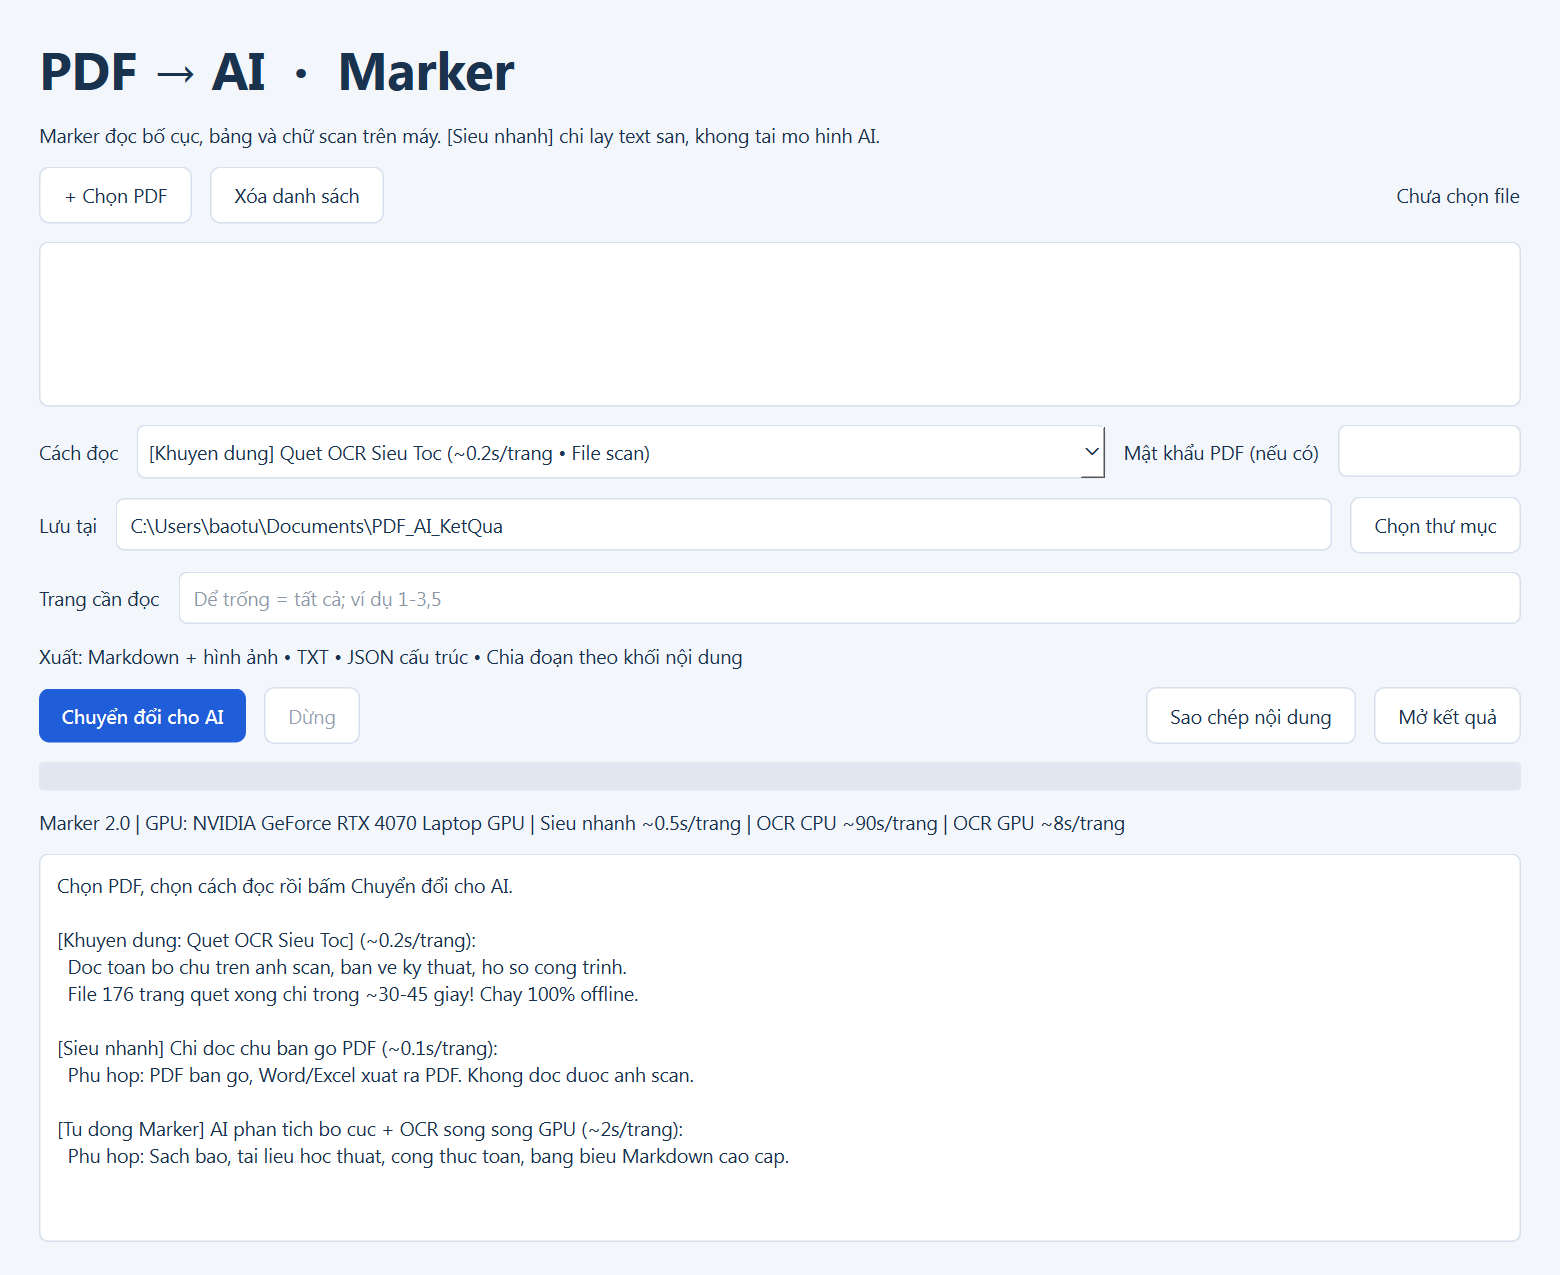
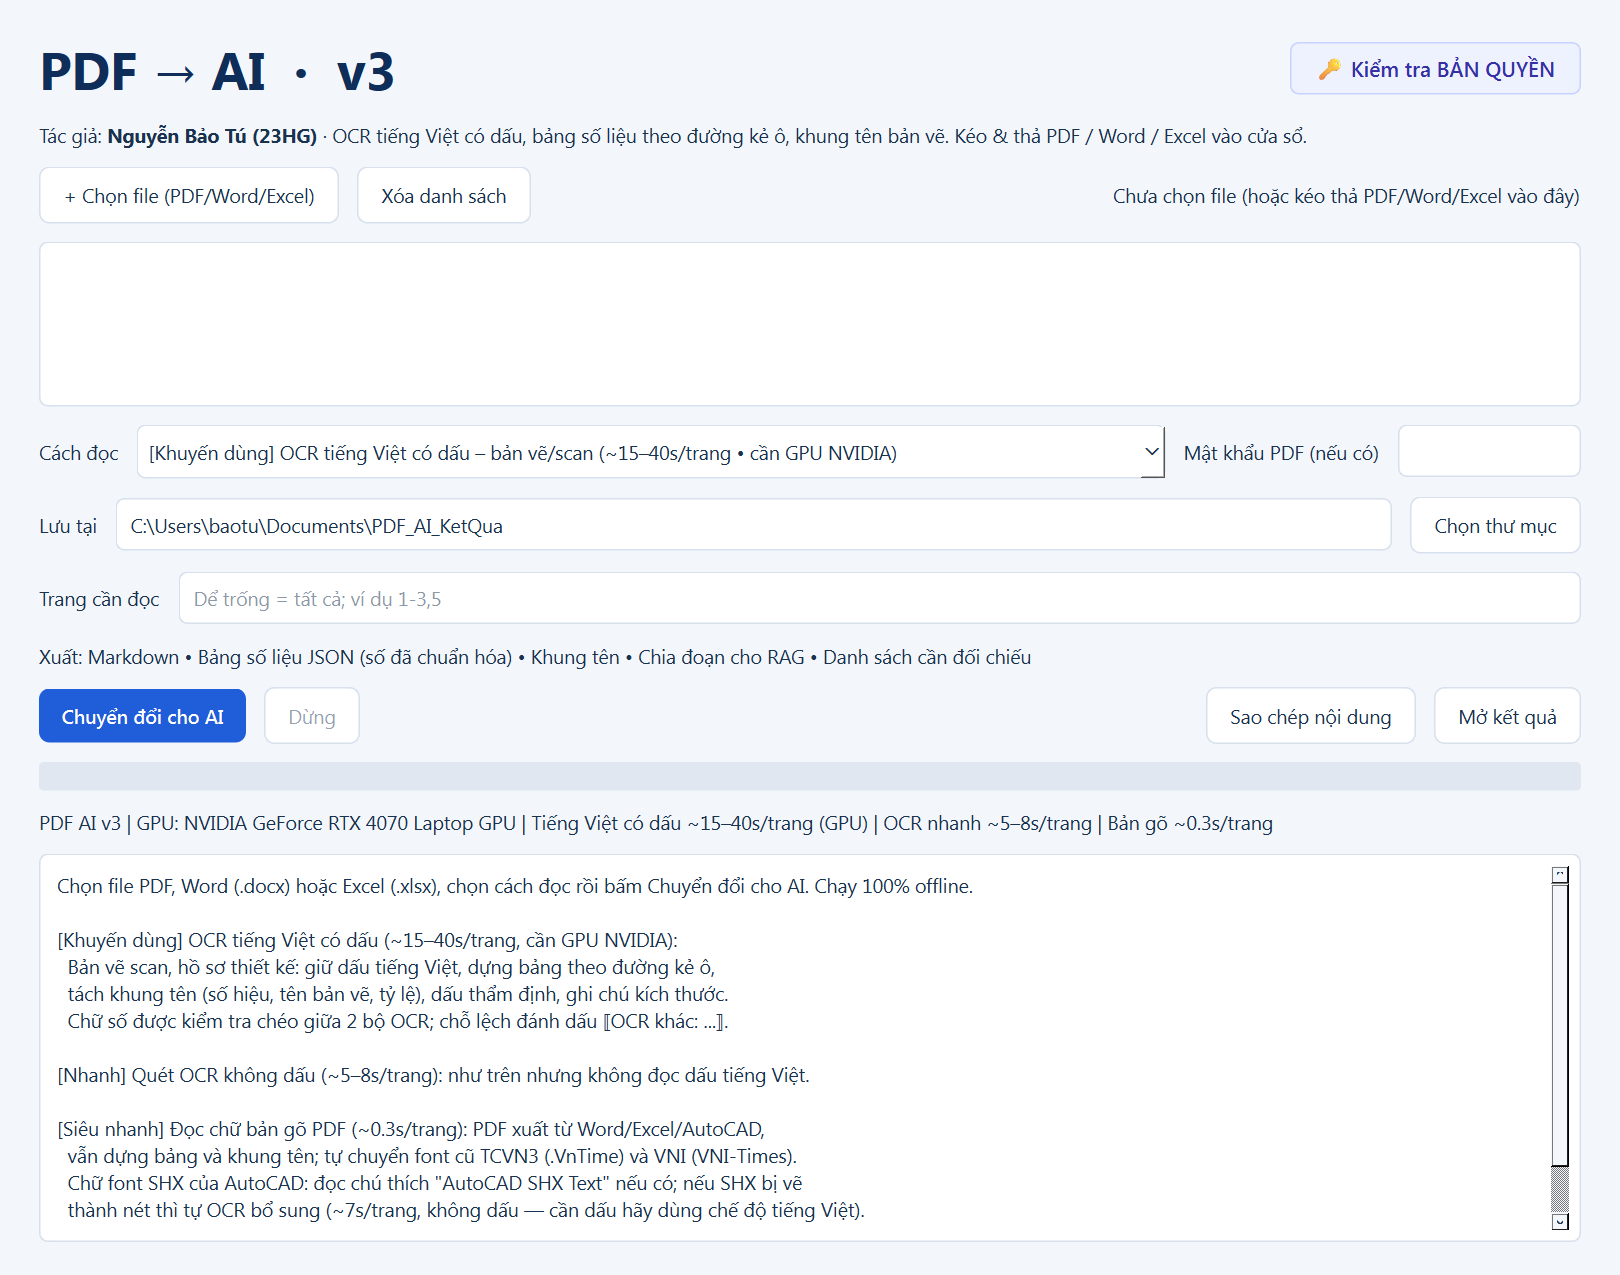
docs: update UI screenshots, commercial licensing docs and user manual in README

diff --git a/README.md b/README.md
@@ -1,106 +1,146 @@
-# PDF AI Marker v3 — Hồ Sơ Xây Dựng (PDF / Word / Excel) Sang AI
+# PDF AI Marker v3 — Chuyển Hồ Sơ Xây Dựng (PDF / Word / Excel) Sang AI Chuẩn Cấu Trúc
 
 <p align="center">
-  <img src="PDF_AI_Marker_Windows_EXE_Final2/app_preview.png" alt="PDF AI Marker v3 Preview" width="800">
+  <img src="PDF_AI_Marker_Windows_EXE_Final2/app_preview.png" alt="PDF AI Marker v3 - Giao diện chính" width="850">
 </p>
 
 <p align="center">
-  <b>Công cụ chuyên nghiệp 100% Offline: Chuyển đổi bản vẽ scan, hồ sơ thiết kế, dự toán, Word & Excel thành dữ liệu có cấu trúc sạch cho AI (LLM / RAG / GPT / Claude).</b>
+  <b>Phần mềm chuyên dụng 100% Offline: Chuyển đổi bản vẽ scan, hồ sơ thiết kế, dự toán, tài liệu Word & Excel thành dữ liệu có cấu trúc sạch cho AI (LLM / RAG / ChatGPT / Claude).</b>
 </p>
 
 <p align="center">
-  <img src="https://img.shields.io/badge/Version-3.0_Commercial-blue.svg" alt="Version">
-  <img src="https://img.shields.io/badge/Platform-Windows_10_|_11-0078D6.svg?logo=windows" alt="Platform">
-  <img src="https://img.shields.io/badge/Security-RSA--1024_Protected-success.svg" alt="License">
-  <img src="https://img.shields.io/badge/Offline-100%25_No_Cloud-green.svg" alt="Offline">
+  <img src="https://img.shields.io/badge/Phiên_bản-3.0_Commercial-007ACC.svg?style=for-the-badge&logo=visual-studio-code" alt="Version">
+  <img src="https://img.shields.io/badge/Hệ_điều_hành-Windows_10_|_11_(x64)-0078D6.svg?style=for-the-badge&logo=windows" alt="Platform">
+  <img src="https://img.shields.io/badge/Bảo_mật-RSA--1024_Asymmetric-2ea44f.svg?style=for-the-badge&logo=letsencrypt" alt="License">
+  <img src="https://img.shields.io/badge/Bảo_mật_dữ_liệu-100%25_Offline_Local-success.svg?style=for-the-badge&logo=private-internet-access" alt="Offline">
+  <img src="https://img.shields.io/badge/Tăng_tốc_AI-NVIDIA_CUDA_Accelerated-76B900.svg?style=for-the-badge&logo=nvidia" alt="GPU">
 </p>
 
 ---
 
-## 🚀 TÍNH NĂNG VƯỢT TRỘI DÀNH CHO NGÀNH XÂY DỰNG (AEC)
+## 🌟 GIỚI THIỆU TỔNG QUAN
 
-1. **OCR tiếng Việt có dấu chuyên sâu cho bản vẽ kỹ thuật & hồ sơ scan:**
-   - Đọc chính xác chữ tiếng Việt có dấu trên bản vẽ thi công, hồ sơ nghiệm thu, thuyết minh thiết kế.
-   - Nhận diện font chữ AutoCAD **SHX**, font cũ **TCVN3 (.VnTime)** và **VNI (VNI-Times)**.
-   - Kiểm tra chéo chữ số giữa 2 bộ engine OCR, tự động gắn cờ `⟦OCR khác: ...⟧` để kỹ sư dễ đối chiếu.
+Trong ngành xây dựng (**AEC**), việc ứng dụng Trí tuệ Nhân tạo (AI, LLM, RAG) thường gặp rào cản lớn nhất ở khâu **dữ liệu đầu vào**:
+- Bản vẽ scan, hồ sơ nghiệm thu, bản vẽ thi công bị nghiêng, mờ hoặc chữ quá nhỏ.
+- Chữ tiếng Việt sử dụng font cũ thời kỳ trước: **TCVN3 (.VnTime)**, **VNI (VNI-Times)** hoặc font chữ AutoCAD kỹ thuật **SHX Text**.
+- Bảng số liệu dự toán, cao độ, tọa độ, khối lượng bị vỡ khung khi chuyển sang text thông thường.
+- Dữ liệu dự án nhạy cảm, tuyệt đối không được tải lên các dịch vụ đám mây công cộng.
 
-2. **Dựng bảng số liệu kẻ ô chuẩn xác:**
-   - Dựng lại bảng số liệu theo đúng ma trận hàng/cột, chuẩn hóa số thập phân.
-   - Xuất dữ liệu đa định dạng: `noi_dung.md` (Markdown), `bang_so_lieu.json` (bảng số liệu), `du_lieu.json` (toàn bộ metadata).
-
-3. **Tách khung tên & mục lục bản vẽ:**
-   - Tự động bóc tách số hiệu bản vẽ, tên bản vẽ, tỷ lệ thiết kế.
-   - Tự động lập bảng "Mục lục bản vẽ" ở đầu tài liệu Markdown.
-
-4. **Hỗ trợ trực tiếp tài liệu Office (Word & Excel):**
-   - Đọc trực tiếp file `.docx`, `.xlsx`, `.xlsm` thành dữ liệu cấu trúc mà không cần bước OCR.
-   - Xử lý ô gộp (merge cells) thông minh, giữ nguyên bản chất số liệu.
-
-5. **Chia đoạn thông minh (Chunking) phục vụ RAG AI:**
-   - Tự động cắt các phân đoạn ~3.000 ký tự kèm nguồn trang/bản vẽ vào file `chia_doan.jsonl`, sẵn sàng nạp ngay vào các hệ thống AI RAG, trợ lý ảo pháp lý/dự toán.
-
-6. **Bảo mật tuyệt đối — 100% Chạy Offline:**
-   - Toàn bộ AI và engine OCR chạy trực tiếp trên máy tính của bạn (tận dụng GPU NVIDIA hoặc CPU).
-   - Không gửi bất kỳ dữ liệu dự án nào lên mạng Internet.
+**PDF AI Marker v3** được nghiên cứu và phát triển bởi **Nguyễn Bảo Tú (23HG)** để giải quyết triệt để các bài toán hóc búa trên. Toàn bộ phần mềm và mô hình AI chạy **100% cục bộ (Offline)** trên máy tính người dùng, mang lại độ chính xác vượt trội và bảo mật tuyệt đối cho mọi tài liệu công trình.
 
 ---
 
-## 📥 TẢI VỀ BẢN CÀI ĐẶT TRỌN GÓI (STANDALONE FULL PACKAGE)
+## 🚀 CÁC TÍNH NĂNG VƯỢT TRỘI DÀNH CHO KỸ SƯ XÂY DỰNG
 
-Do phần mềm tích hợp sẵn toàn bộ mô hình AI và môi trường nhị phân offline (~8.6 GB sau khi giải nén), bộ cài đặt trọn gói được phân phối qua link tốc độ cao:
+### 1. OCR Tiếng Việt Có Dấu Đa Tầng (Multi-Engine AI)
+- Tích hợp mô hình AI thị giác chuyên sâu, nhận diện tiếng Việt có dấu chuẩn xác ngay cả trên bản vẽ scan độ phân giải cao hoặc bản vẽ in lại nhiều lần.
+- Tự động nhận diện và dịch mã font chữ chuyên dụng ngành xây dựng:
+  - Font kỹ thuật AutoCAD: **AutoCAD SHX Text** (kể cả font nét vẽ vector SHX).
+  - Font chữ cũ trong hồ sơ lưu trữ: **TCVN3 (.VnTime, .VnTimeH)** và **VNI (VNI-Times)** sang chuẩn Unicode dựng sẵn.
+- **Kiểm tra chéo chữ số thông minh:** Tự động đối chiếu chéo số liệu giữa 2 bộ engine OCR độc lập. Các vị trí có sự sai lệch sẽ được đánh dấu cờ cảnh báo `⟦OCR khác: ...⟧` để kỹ sư rà soát dễ dàng, chống nhầm lẫn số liệu đo đạc / dự toán.
 
-👉 **[BẤM VÀO ĐÂY ĐỂ TẢI BẢN TRỌN GÓI (Google Drive / OneDrive)](#)** *(Liên hệ để nhận link tải chính thức)*
+### 2. Dựng Ma Trận Bảng Biểu Số Liệu Chuẩn Xác
+- Tự động phát hiện hệ lưới đường kẻ ô (Table Grid Line Detection), phục hồi nguyên vẹn ma trận hàng - cột.
+- Chuẩn hóa định dạng số: tự động nhận diện dấu phẩy/chấm thập phân kiểu Việt Nam và quốc tế.
+- Xuất dữ liệu đa tầng phục vụ lập trình và phân tích:
+  - `noi_dung.md`: Bảng Markdown trực quan cho người đọc và AI.
+  - `bang_so_lieu.json`: Toàn bộ bảng biểu trích xuất dưới dạng mảng JSON (headers, rows, numeric values).
+  - `du_lieu.json`: Metadata chi tiết từng trang, tọa độ bounding box, độ tin cậy OCR.
 
-### Hướng dẫn cài đặt siêu tốc:
-1. Tải file nén `.rar` về và giải nén ra ổ đĩa (khuyến nghị `D:\` hoặc `C:\`, cần ~9 GB trống).
-2. Chạy trực tiếp file `PDF_AI_Marker.exe` (không cần cài Python hay thiết lập môi trường phức tạp).
-3. Bản quyền sẽ tự động mở cửa sổ kích hoạt trong lần chạy đầu tiên.
+### 3. Tự Động Bóc Tách Khung Tên & Lập Mục Lục Bản Vẽ
+- Nhận diện vị trí khung tên kỹ thuật (Title Block) ở các góc bản vẽ.
+- Tự động trích xuất các trường thông tin: *Số hiệu bản vẽ*, *Tên bản vẽ*, *Hạng mục*, *Tỷ lệ thiết kế*.
+- Tự động biên soạn danh mục **"Mục lục bản vẽ"** có neo liên kết (anchor) ngay đầu file Markdown giúp tra cứu tức thì.
+
+### 4. Đọc Trực Tiếp Tài Liệu Office (Word & Excel)
+- Hỗ trợ trực tiếp các file `.docx`, `.xlsx`, `.xlsm` mà không cần xuất qua PDF hay qua bước OCR.
+- Xử lý các ô gộp (merged cells) thông minh, giữ nguyên thứ bậc phân cấp cây thư mục (WBS) trong bảng tính dự toán và thuyết minh kỹ thuật.
+
+### 5. Phân Đoạn Thông Minh (Smart Chunking) Sẵn Sàng Cho RAG AI
+- Tự động cắt tài liệu thành các phân đoạn tối ưu (~3.000 ký tự) theo ranh giới đoạn văn và trang bản vẽ.
+- Xuất file chuẩn `chia_doan.jsonl` kèm metadata nguồn gốc (*tên file, số trang, tên bản vẽ*), nạp trực tiếp vào các hệ thống Vector Database (Chroma, Qdrant, Milvus, Pinecone) hoặc các nền tảng AI Agent (LangChain, LlamaIndex, Dify).
+
+### 6. Bảo Mật Tuyệt Đối — 100% Chạy Offline
+- Không kết nối Internet, không gửi dữ liệu ra bên ngoài.
+- Tận dụng sức mạnh phần cứng máy tính: tăng tốc bằng card đồ họa rời NVIDIA (CUDA) hoặc tối ưu hóa trên CPU đa nhân.
 
 ---
 
-## 🔑 BẢNG GIÁ & ĐĂNG KÝ BẢN QUYỀN (LICENSE)
+## 🔑 BẢN QUYỀN THƯƠNG MẠI & QUẢN LÝ GIẤY PHÉP
 
-Hệ thống hỗ trợ 2 hình thức cấp phép linh hoạt:
+Hệ thống bảo vệ bản quyền sử dụng thuật toán mã hóa bất đối xứng **RSA-1024** chuẩn công nghiệp, cho phép khách hàng linh hoạt lựa chọn hình thức cấp phép phù hợp:
 
-| Gói bản quyền | Đối tượng áp dụng | Tính năng nổi bật | Đơn giá |
+<p align="center">
+  <img src="PDF_AI_Marker_Windows_EXE_Final2/license_preview.png" alt="Cửa sổ kích hoạt bản quyền" width="600">
+</p>
+
+### Bảng Giá Giấy Phép Sử Dụng:
+
+| Gói Bản Quyền | Đối Tượng Áp Dụng | Cơ Chế Cấp Phép | Đơn Giá |
 | :--- | :--- | :--- | :--- |
-| **Gói Máy tính (SSD)** | Kỹ sư làm việc cố định trên 1 máy | Khóa theo Serial phần cứng SSD của máy tính | **500.000 đ / 1 năm**<br>*(1.000.000 đ trọn đời)* |
-| **Gói USB Dongle (Di động)** | Kỹ sư chuyển đổi giữa máy văn phòng & laptop công trường | Khóa theo USB (Sandisk/Kingston). Cắm USB vào máy nào thì máy đó chạy được | **800.000 đ / 1 năm**<br>*(2.000.000 đ trọn đời)* |
+| 💻 **Gói Máy Tính Cố Định (SSD)** | Kỹ sư làm việc chủ yếu trên máy bàn hoặc 1 laptop cá nhân | Khóa bản quyền gắn liền với Serial phần cứng ổ cứng SSD / Mainboard | **500.000 đ / 1 năm**<br>*(1.000.000 đ trọn đời)* |
+| 🔌 **Gói USB Dongle (Di Động)** | Kỹ sư thường xuyên di chuyển giữa máy công trường, laptop và máy văn phòng | Khóa bản quyền tích hợp theo USB (Sandisk/Kingston/...). Cắm USB vào máy nào là máy đó sử dụng được | **800.000 đ / 1 năm**<br>*(2.000.000 đ trọn đời)* |
 
 ---
 
 ## ⚡ QUY TRÌNH MUA VÀ KÍCH HOẠT KEY (CHỈ 3 BƯỚC)
 
-1. **Bước 1 — Lấy mã kích hoạt:**
-   - Mở phần mềm `PDF_AI_Marker.exe`. Cửa sổ kích hoạt sẽ hiện ra.
-   - Mã máy (Machine ID) **đã tự động được sao chép vào Clipboard**.
-2. **Bước 2 — Gửi mã & Thanh toán:**
-   - Mở Zalo số **0986.xxx.xxx** hoặc Email **baotuhg@gmail.com**, ấn `Ctrl + V` để gửi mã sang.
-   - Chuyển khoản thanh toán theo thông tin tài khoản bên dưới.
-3. **Bước 3 — Nhận Key & Sử dụng:**
-   - Trong vòng 3-5 phút, bạn sẽ nhận được chuỗi **License Key** (hoặc file `pdf_ai.lic`).
-   - Dán key vào phần mềm (hoặc chọn file `pdf_ai.lic`) rồi bấm **Kích hoạt** $\rightarrow$ Hoàn tất!
+1. **Bước 1 — Lấy mã máy (Machine ID):**
+   - Mở phần mềm `PDF_AI_Marker.exe`. Cửa sổ kích hoạt bản quyền sẽ tự động xuất hiện trong lần chạy đầu tiên (hoặc bấm nút **`🔑 Kiểm tra BẢN QUYỀN`** trên thanh công cụ).
+   - Mã máy (Machine ID) **đã được tự động sao chép vào bộ nhớ tạm (Clipboard)**.
+2. **Bước 2 — Gửi mã và thanh toán:**
+   - Mở Zalo số **0986.xxx.xxx** hoặc gửi Email tới **baotuhg@gmail.com**, ấn `Ctrl + V` để gửi chuỗi Machine ID.
+   - Thực hiện thanh toán theo thông tin tài khoản bên dưới.
+3. **Bước 3 — Nhận Key và sử dụng:**
+   - Trong vòng 3 - 5 phút, tác giả sẽ gửi lại chuỗi **License Key** (hoặc file `pdf_ai.lic`).
+   - Bạn chỉ cần bấm **"Dán từ Clipboard"** (hoặc **"Chọn file pdf_ai.lic"**) rồi bấm **"Kích hoạt"** $\rightarrow$ Phần mềm chuyển sang trạng thái `[ĐÃ KÍCH HOẠT VĨNH VIỄN]`.
 
 ---
 
-## 💳 THÔNG TIN THANH TOÁN
+## 📥 TẢI BỘ CÀI ĐẶT TRỌN GÓI (OFFLINE STANDALONE PACKAGE)
+
+Do phần mềm tích hợp sẵn toàn bộ mô hình AI, môi trường PyTorch và engine OCR offline (~8.6 GB sau khi giải nén), bộ cài đặt trọn gói được lưu trữ và chia sẻ qua liên kết tốc độ cao:
+
+👉 **[BẤM VÀO ĐÂY ĐỂ TẢI BẢN TRỌN GÓI (Google Drive / OneDrive)](#)**  
+*(Vui lòng liên hệ tác giả qua Zalo/Email để nhận liên kết tải chính thức mới nhất)*
+
+### Hướng Dẫn Cài Đặt Siêu Tốc:
+1. Tải file nén `.rar` về máy tính và giải nén ra ổ đĩa (khuyến nghị ổ `D:\` hoặc `C:\`, cần khoảng 9 GB trống).
+2. Chạy trực tiếp file **`PDF_AI_Marker.exe`** (không cần cài Python, không cần cài đặt môi trường phức tạp).
+3. Nếu máy tính Windows mới/máy sạch thông báo thiếu file DLL: Cài đặt gói [Microsoft Visual C++ 2015-2022 Redistributable (x64)](https://aka.ms/vs/17/release/vc_redist.x64.exe) từ trang chủ Microsoft.
+
+---
+
+## 💻 YÊU CẦU CẤU HÌNH HỆ THỐNG
+
+| Thành phần | Cấu hình tối thiểu | Cấu hình khuyến nghị |
+| :--- | :--- | :--- |
+| **Hệ điều hành** | Windows 10 (64-bit) Version 1909 trở lên | Windows 10 / Windows 11 (64-bit) |
+| **Bộ xử lý (CPU)** | Intel Core i5 / AMD Ryzen 5 (4 nhân 8 luồng) | Intel Core i7 / AMD Ryzen 7 trở lên |
+| **Bộ nhớ RAM** | 8 GB RAM | 16 GB - 32 GB RAM |
+| **Card đồ họa (GPU)** | Không bắt buộc (chạy chế độ OCR nhanh / bản gõ) | NVIDIA GeForce RTX 2060 / 3060 / 4060 trở lên (VRAM >= 6GB) |
+| **Ổ cứng lưu trữ** | 10 GB dung lượng trống | Ổ cứng thể rắn SSD (NVMe / SATA III) |
+
+---
+
+## 💳 THÔNG TIN THANH TOÁN & ĐĂNG KÝ BẢN QUYỀN
 
 - **Chủ tài khoản:** NGUYEN BAO TU
 - **Ngân hàng:** [Tên Ngân Hàng] — Số tài khoản: `xxxx-xxxx-xxxx`
-- **Ví điện tử / Momo:** `0986xxxxxx`
-- **Nội dung chuyển khoản:** `[Họ Tên] - PDF AI Marker`
+- **Ví điện tử MoMo:** `0986xxxxxx`
+- **Cú pháp chuyển khoản:** `[Họ Tên] [Số Điện Thoại] - PDF AI Marker`
 
 ---
 
-## 📞 HỖ TRỢ KỸ THUẬT & LIÊN HỆ
+## 📞 THÔNG TIN TÁC GIẢ & HỖ TRỢ KỸ THUẬT
 
-- **Tác giả:** Nguyễn Bảo Tú (23HG)
-- **Zalo / Hotline:** 0986.xxx.xxx
-- **Email:** baotuhg@gmail.com
-- **GitHub:** [https://github.com/baotuhg](https://github.com/baotuhg)
+- **Tác giả:** **Nguyễn Bảo Tú (23HG)**
+- **Email:** [baotuhg@gmail.com](mailto:baotuhg@gmail.com)
+- **Hotline / Zalo:** `0986.xxx.xxx`
+- **GitHub Repository:** [https://github.com/baotuhg/PDF_AI_Marker](https://github.com/baotuhg/PDF_AI_Marker)
 
 ---
 
 <p align="center">
-  <i>Bản quyền (C) 2026 Nguyễn Bảo Tú. Mọi quyền được bảo lưu.</i>
+  <i>Bản quyền (C) 2026 Nguyễn Bảo Tú (23HG). Toàn bộ quyền sở hữu trí tuệ được bảo lưu.</i>
 </p>
